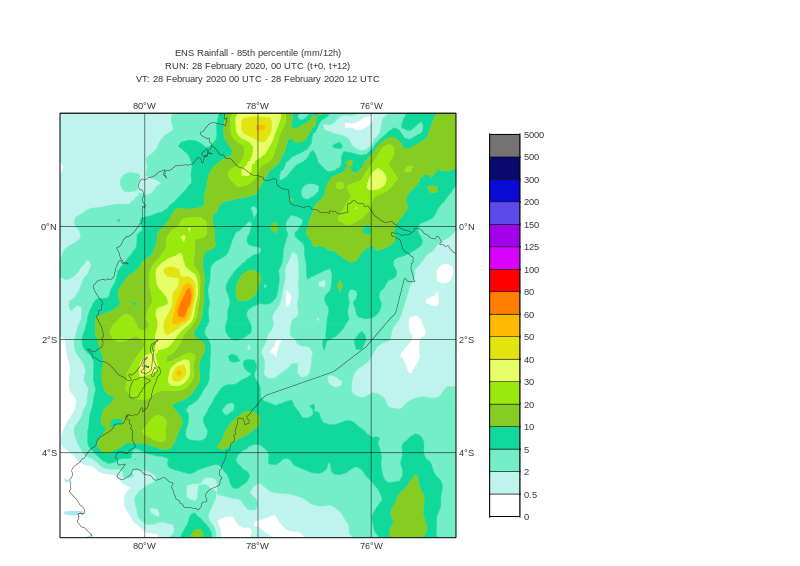
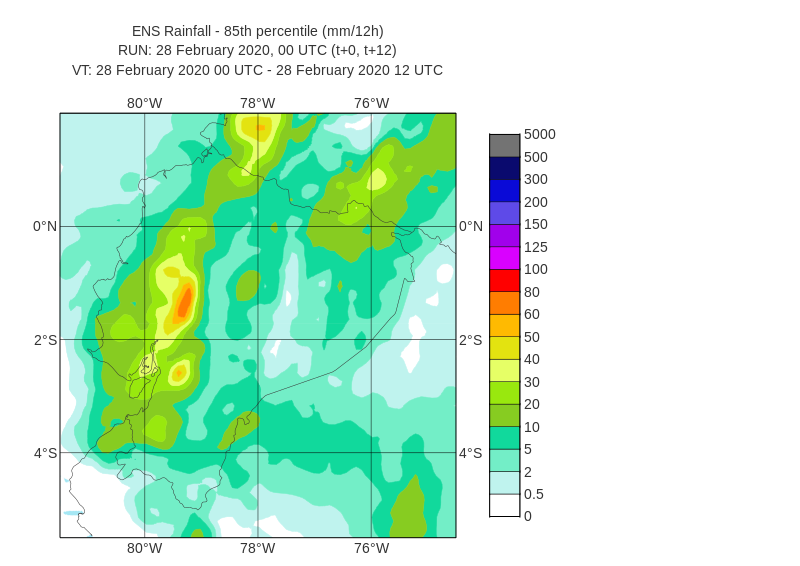
Improved map plots for the example of the rainfall forecasts.

diff --git a/Scripts/Processed/04c_Plot_ecPoint_Rainfall_Percentile.py b/Scripts/Processed/04c_Plot_ecPoint_Rainfall_Percentile.py
@@ -72,7 +72,7 @@ for SystemFC in SystemFC_list:
             map_label = "on",
             map_label_font = "arial",
             map_label_colour = "charcoal",
-            map_label_height = 0.4
+            map_label_height = 0.6
             )
 
         geo_view = mv.geoview(
@@ -96,7 +96,7 @@ for SystemFC in SystemFC_list:
         legend = mv.mlegend(
             legend_text_colour = "charcoal",
             legend_text_font = "arial",
-            legend_text_font_size = 0.4,
+            legend_text_font_size = 0.6,
             legend_entry_plot_direction = "column",
             legend_automatic_posiution = "right",
             legend_box_blanking = "on",
@@ -124,7 +124,7 @@ for SystemFC in SystemFC_list:
             text_line_4 = " ",
             text_colour = "charcoal",
             text_font = "arial",
-            text_font_size = 0.4
+            text_font_size = 0.6
             )
         
         # Saving the maps
